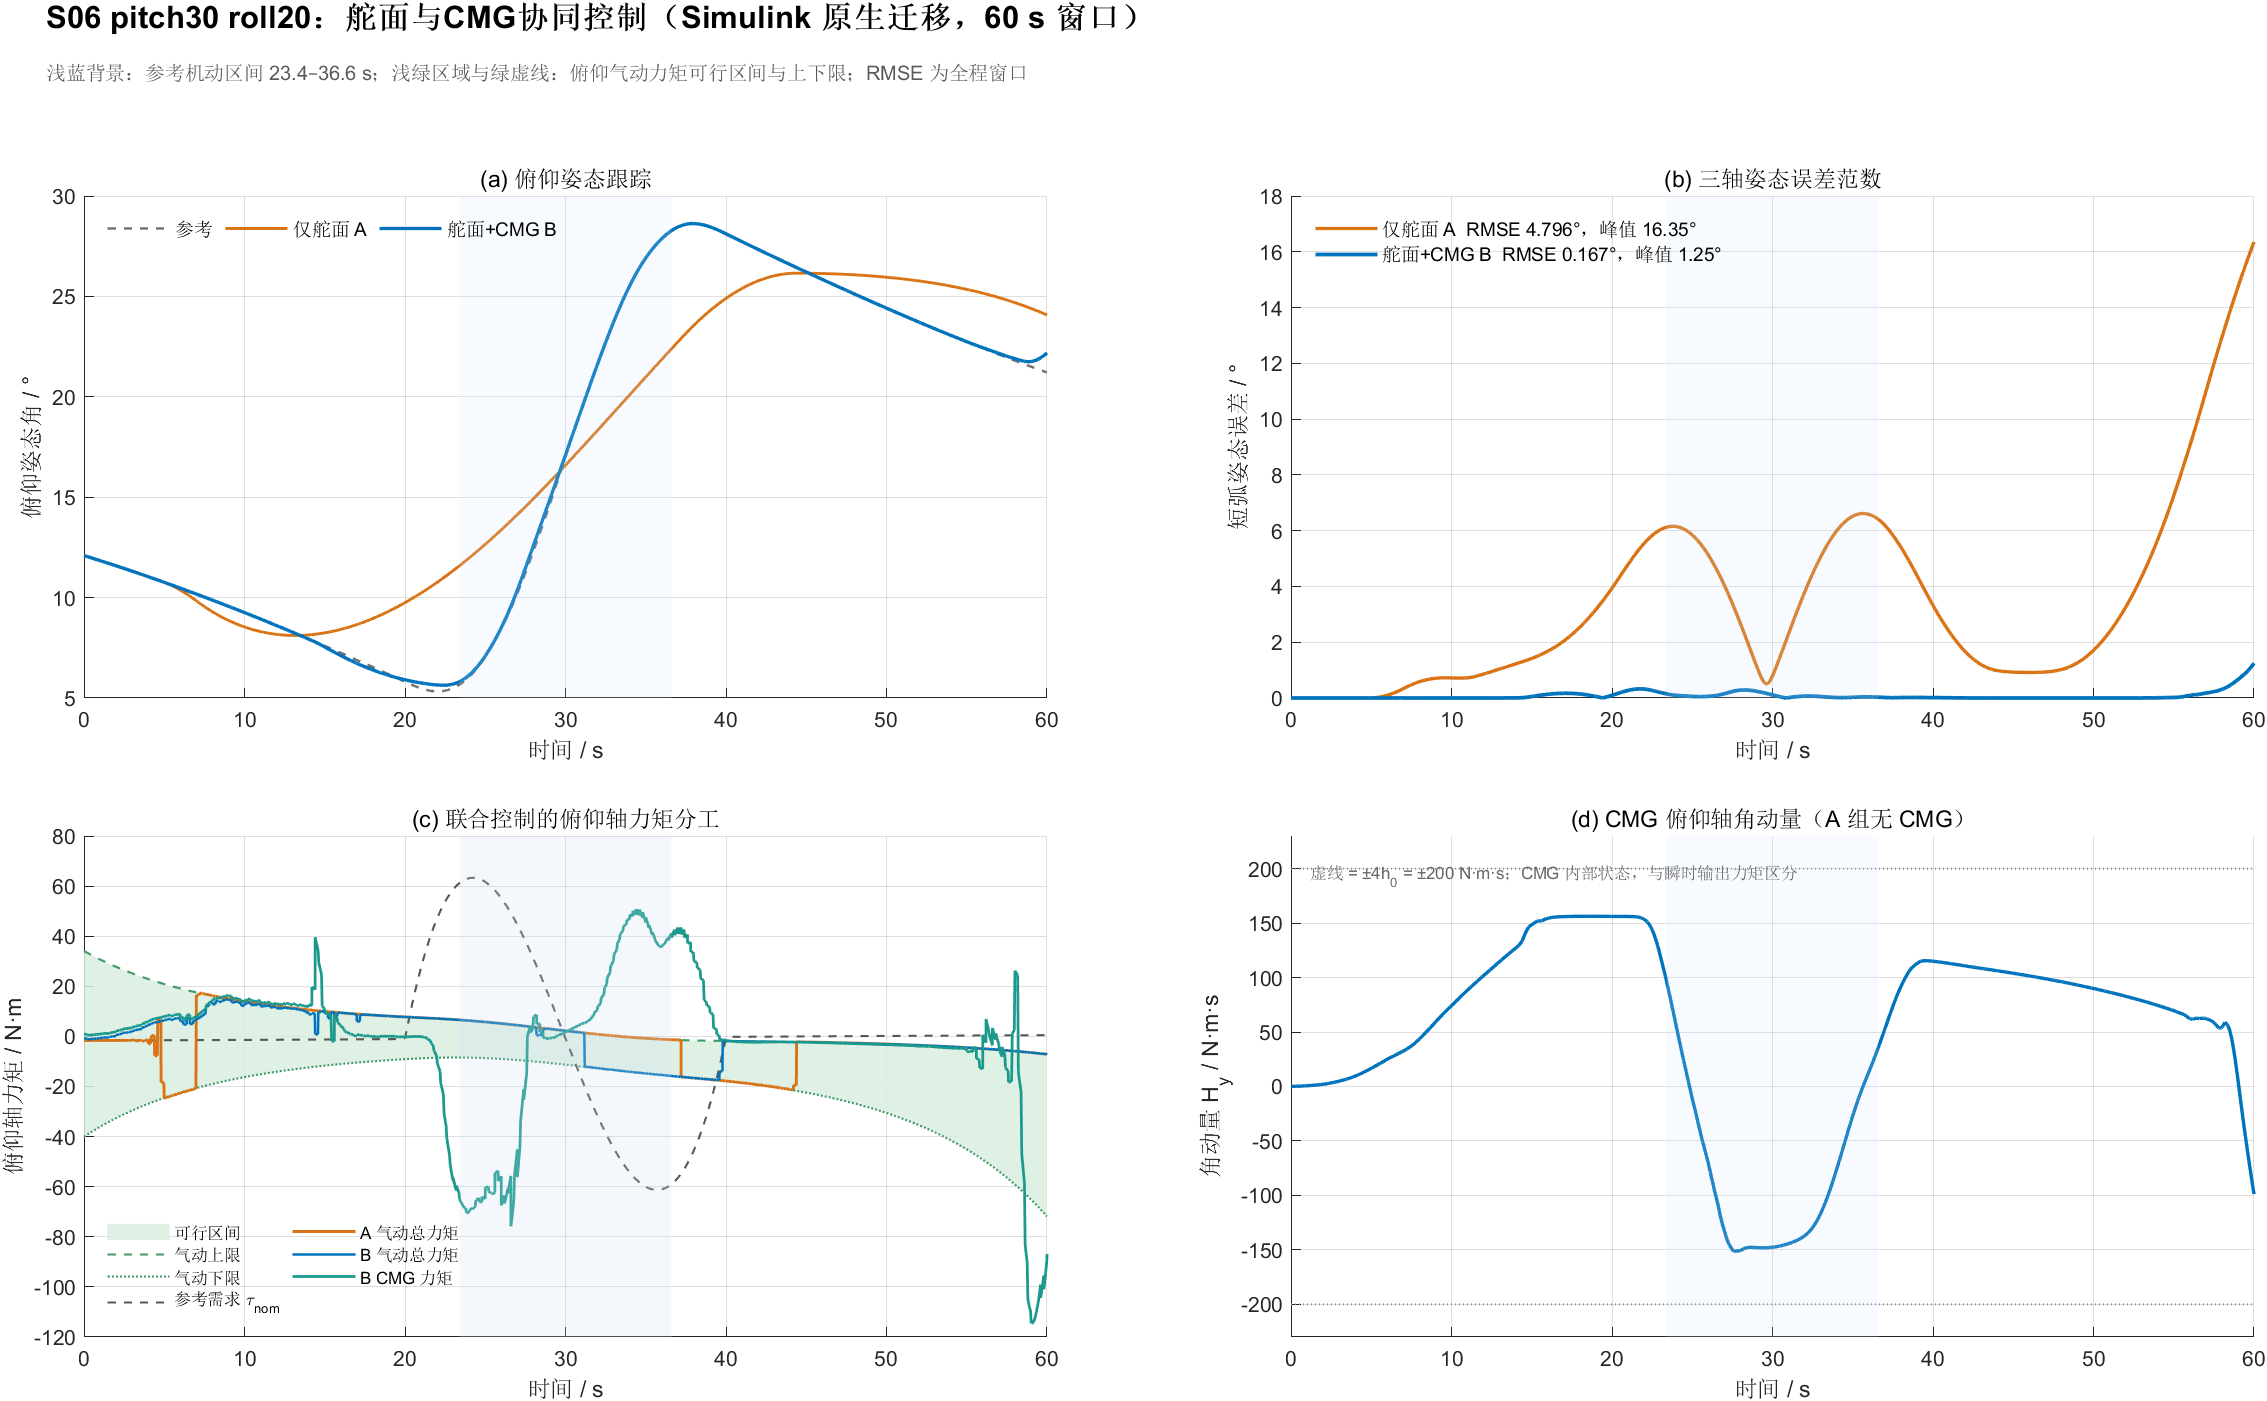
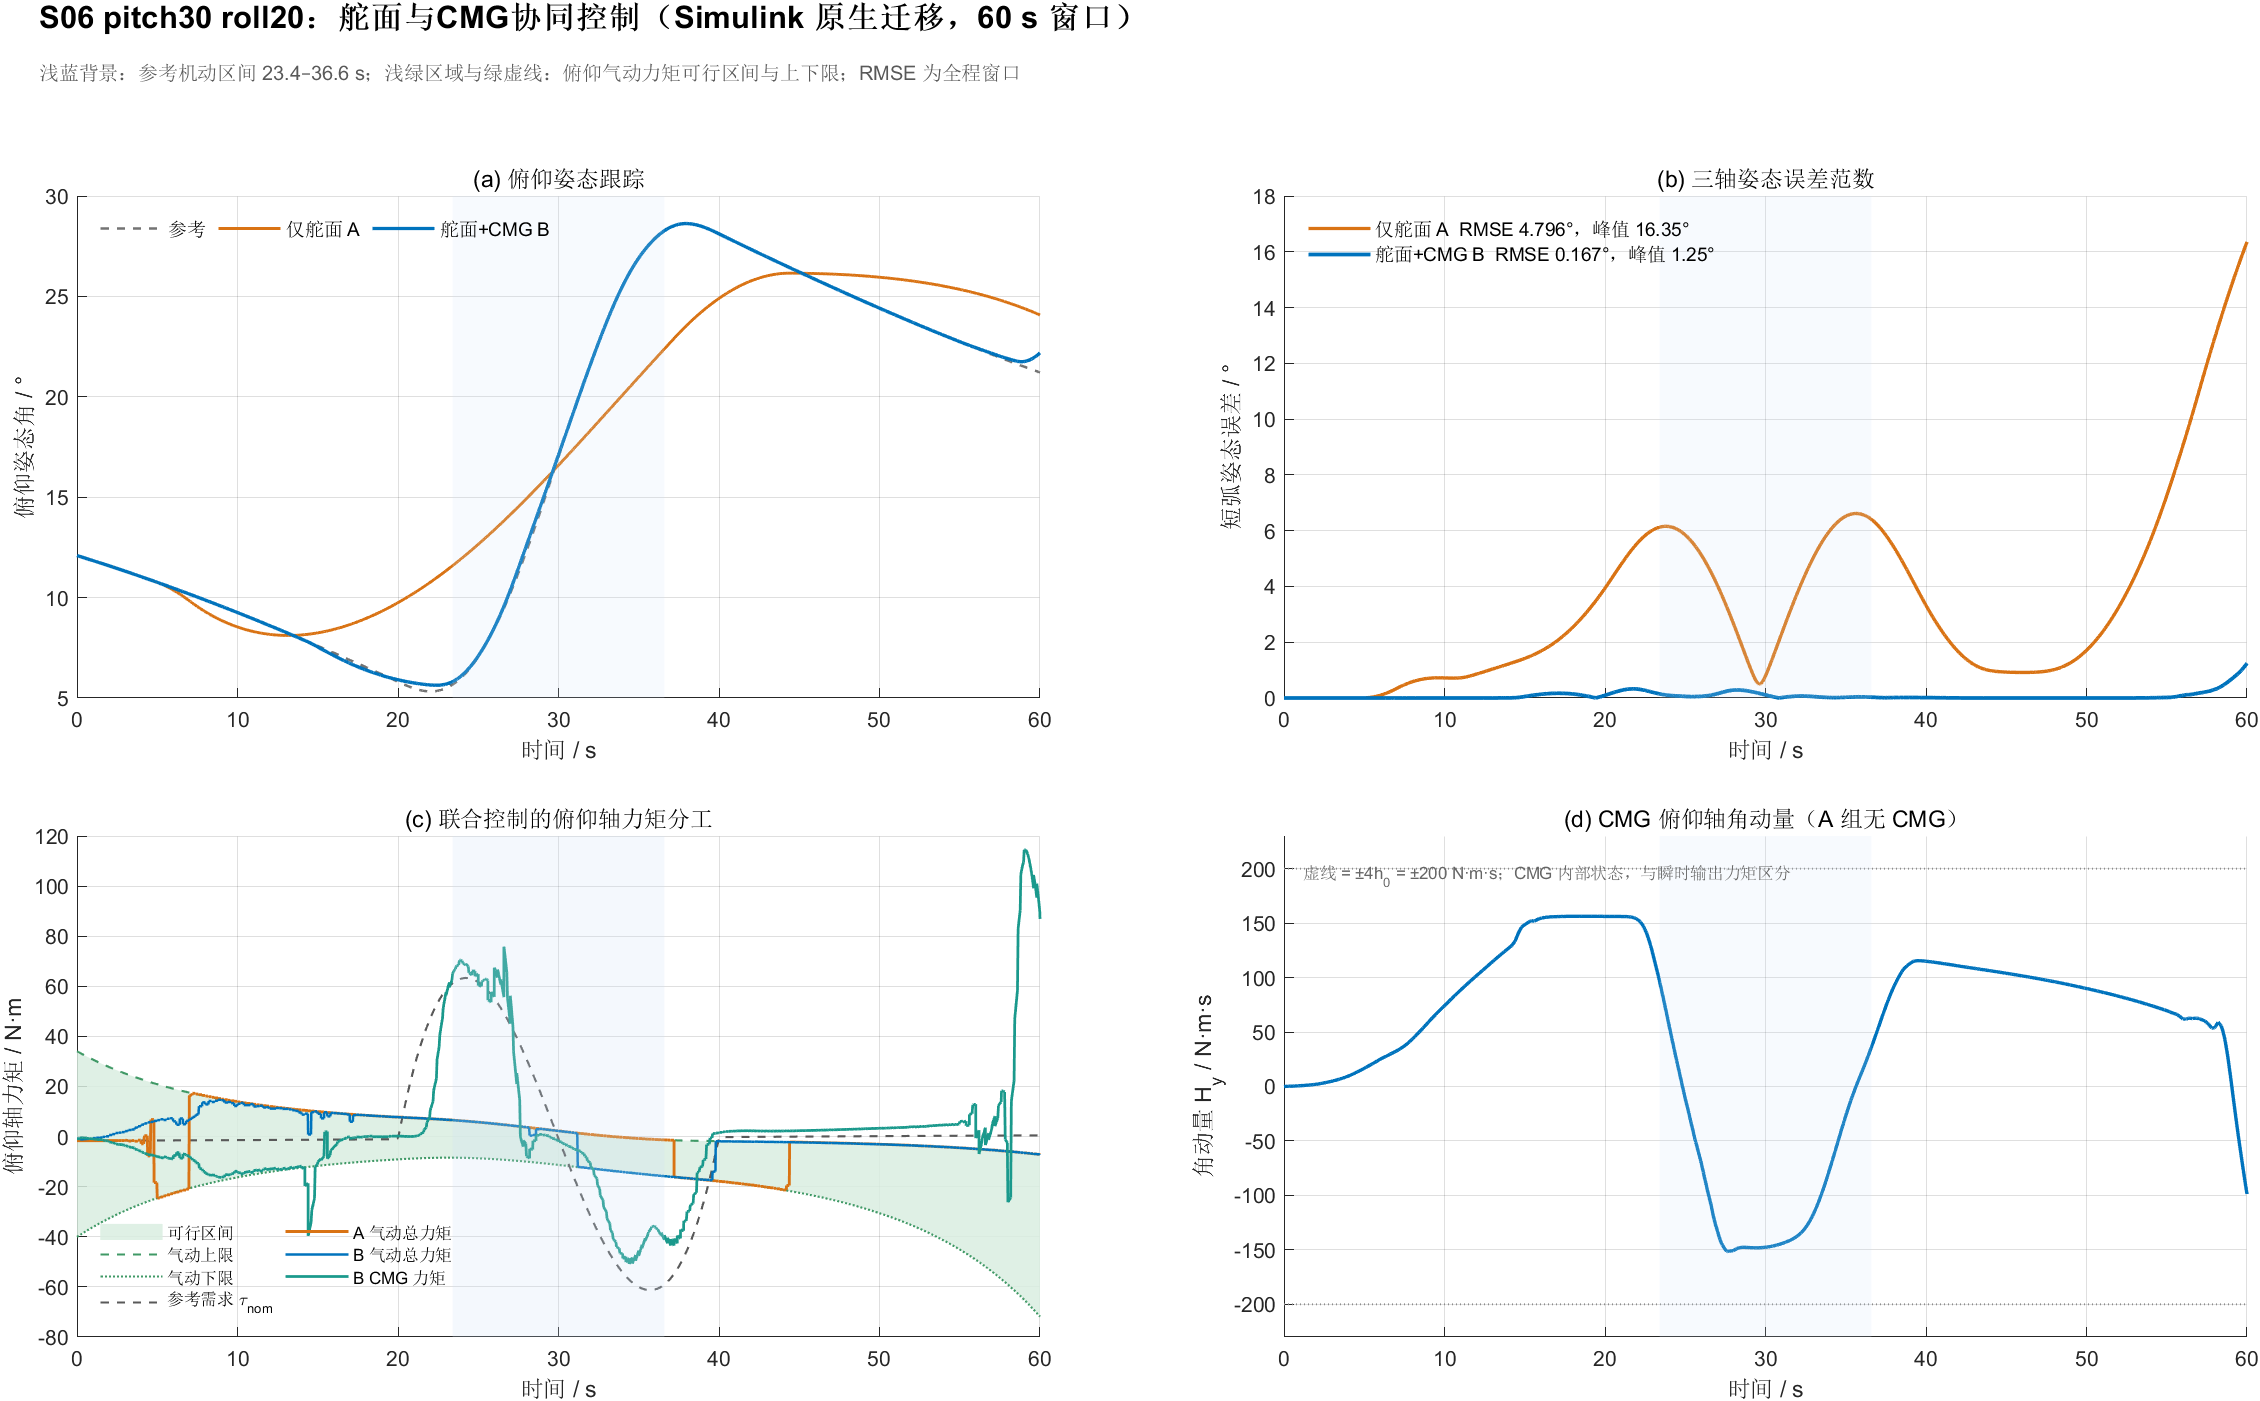
Fix inverted CMG torque in the P0 A/B figures
plot_p0_ab called -cmgmoment(...) although cmgmoment already returns
tau_cmg = -A(gamma) nu, so panel (c) drew the reaction torque with the wrong sign:
around 22-30 s the pitch demand rises to +60 N.m, the aero box only allows +40,
and the figure showed the CMG pulling -55 while the vehicle was actually pitching
up. The attitude, error, momentum and metrics panels were unaffected, which is why
the inversion was only visible in the torque-split panel.

Sign check (not just re-reading the formula): rebuild the torque balance from the
S00 B log at t = 25 s, where the aero command is tau_a,y = 5.82 N.m and the
reference demand is tau_nom,y = 61.73 N.m. With tau_cmg = -A(gamma) nu = +54.53 the
sum is 60.35 N.m, i.e. it reproduces the demand; with the flipped sign it would be
-48.7 N.m. A finite-difference angular-acceleration residual test was also run but
is dominated by differentiation noise (1e4 N.m), so the demand match is the
criterion used.

All eight P0 figures are regenerated with the corrected sign; the CSV metrics are
unchanged because they only report attitude error and the aero-command peak.

Docs: 08_closed_loop_validation.md now states the tau_cmg = -A(gamma) nu convention
used in panel (c).

diff --git a/simulink/verify/plot_p0_ab.m b/simulink/verify/plot_p0_ab.m
@@ -28,7 +28,7 @@ tk=loadmodel(case_name,false);tm=loadmodel(case_name,true);
 bank=tk.bank;tmpl=tm.tmpl;
 t=B.t;tref=bank.time(:);
 h0=tmpl.h0;s0=tmpl.s0;gxs0=tmpl.gxs0;
-cmgB=-cmgmoment(s0,gxs0,h0,B.gamma,B.nu);      % tau = -A(gamma) nu
+cmgB=cmgmoment(s0,gxs0,h0,B.gamma,B.nu);        % tau_cmg = -A(gamma) nu (already negated inside)
 Hy=cmgH(s0,gxs0,h0,B.gamma);
 
 % which body axis this case manoeuvres about

diff --git a/docs/simulink/08_closed_loop_validation.md b/docs/simulink/08_closed_loop_validation.md
@@ -112,10 +112,12 @@ B 组框架速率命令、B 组框架角、动压、迎角/侧滑角、速度；
 |---|---|
 | (a) | 该工况机动轴的姿态跟踪（参考虚线 / A / B），浅蓝底为参考机动区间 |
 | (b) | 三轴短弧姿态误差范数，图例内含全程 RMSE 与峰值 |
-| (c) | 该轴力矩分工：气动可行区间与上下限（绿）、参考需求 τ_nom、A/B 气动总力矩、B 的 CMG 力矩（青） |
+| (c) | 该轴力矩分工：气动可行区间与上下限（绿）、参考需求 τ_nom、A/B 气动总力矩、B 的 CMG 力矩（青，`τ_cmg = -A(γ)ν`） |
 | (d) | CMG 该轴角动量 H(γ) 与 ±4h₀ 参考（A 组无 CMG） |
 
 机动轴按工况自动选择：`*roll*` → 滚转、`*yaw*` → 偏航、其余 → 俯仰。
+CMG 力矩按真值约定 `τ_cmg = -A(γ)ν` 由日志重算；自检方法：任一时刻应有
+`τ_a + τ_cmg ≈ τ_nom`（例：S00 在 t=25 s 时 5.82 + 54.53 = 60.35 ≈ 61.73 N·m）。
 生成：`plot_p0_ab`（全部 8 组）或 `plot_p0_ab('S00_pitch30')`（单组）。
 输出：`results/native_closedloop/P0_<case>_AB.png` 与 `P0_<case>_metrics.csv`（最大/RMS/终值误差与该轴力矩峰值）。
 RMSE/峰值与该目录的 `p0_matrix_summary.csv` 一致；这些图只读已保存日志，重跑仿真不是前提。
